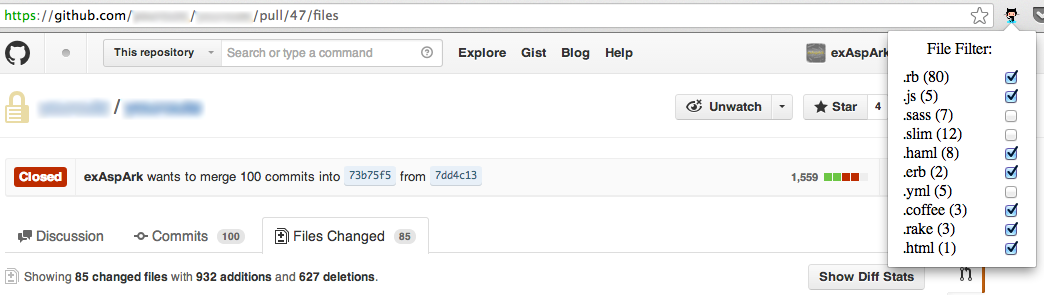
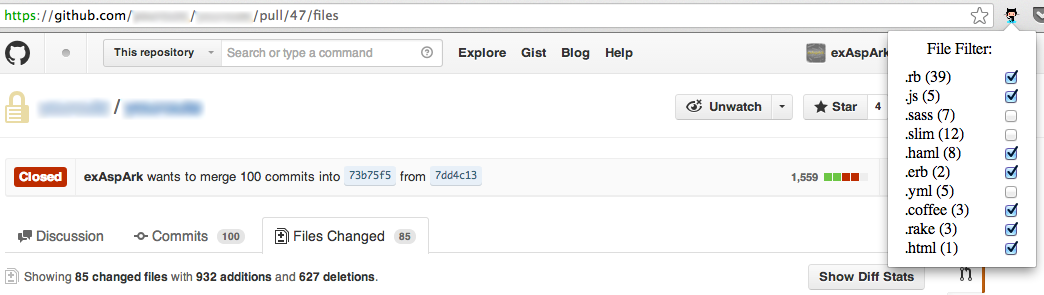
fix elements' count in popup

Changed region(s): [[0.8582, 0.2441, 0.9502, 0.8847]]

diff --git a/github-review-file-filter/file_extensions.js b/github-review-file-filter/file_extensions.js
@@ -1,53 +1,42 @@
-var allFiles          = getAllElementsWithAttribute('class', 'meta');
-var allFileExtensionsInfo = getAllFileExtensionsInfo(allFiles);
+var allFileElements       = getAllFiles(getAllElementsWithAttribute('class', 'meta'));
+var allFileExtensionsInfo = getAllFileExtensionsInfo(allFileElements);
 
 // send allFileExtensionsInfo to popup.js
 chrome.extension.sendMessage(allFileExtensionsInfo);
 
 // ----------------------------------------------------------------------------
 
-// action if checkbox with file extension was toggled
-chrome.extension.onMessage.addListener(function(message, sender, sendResponse) {
-    if(message.action === 'checkboxToggled') {
-        for (var i = 0; i < allFiles.length; i++) {
-            var fileExtension = getFileExtension(allFiles[i]);
-            if (fileExtension === message.fileExtension) {
-                toggleFileVisibility(allFiles[i], message.visible);
-            }
+function getAllFiles(elements) {
+    allFiles = [];
+    for (var i = 0; i < elements.length; i++) {
+        if (hasClass(elements[i].parentNode, 'file')) {
+            allFiles.push(elements[i]);
         }
     }
-});
-
-function toggleFileVisibility(divFile, visible) {
-    var display;
-    if (visible) {
-        display = 'block';
-    }
-    else {
-        display = 'none';
-    }
-
-    divFile.parentNode.style.display = display;
+    return allFiles;
 }
 
-// ----------------------------------------------------------------------------
+function hasClass(element, className) {
+    return (' ' + element.className + ' ').indexOf(' ' + className + ' ') !== -1;
+}
 
-function getAllElementsWithAttribute(attribute, value) {
+function getAllElementsWithAttribute(attributeName, value) {
     var matchingElements = [];
-    var allElements = document.getElementsByTagName('*');
+    var allElements = document.getElementsByTagName('div');
     for (var i = 0; i < allElements.length; i++) {
-        if (allElements[i].getAttribute(attribute) == value) {
-        matchingElements.push(allElements[i]);
+        if (allElements[i].getAttribute(attributeName) == value) {
+            matchingElements.push(allElements[i]);
         }
     }
     return matchingElements;
 }
 
-function getAllFileExtensionsInfo(allFiles) {
+function getAllFileExtensionsInfo(allFileElements) {
     var allFileExtensionsInfo = [];
-    for (var i = 0; i < allFiles.length; i++) {
-        var isVisible         = allFiles[i].parentNode.style.display !== 'none';
-        var fileExtension     = getFileExtension(allFiles[i]);
+
+    for (var i = 0; i < allFileElements.length; i++) {
+        var isVisible         = allFileElements[i].parentNode.style.display !== 'none';
+        var fileExtension     = getFileExtension(allFileElements[i]);
         var fileExtensionInfo = findFileExtensionInfo(allFileExtensionsInfo, fileExtension);
 
         if (fileExtensionInfo) {
@@ -72,8 +61,8 @@ function findFileExtensionInfo(allFileExtensionsInfo, fileExtension) {
     return null;
 }
 
-function getFileExtension(divFile) {
-    var fileName = divFile.getAttribute('data-path');
+function getFileExtension(fileElement) {
+    var fileName = fileElement.getAttribute('data-path');
 
     if (fileName.indexOf('.') !== -1) {
         return '.' + fileName.split('.').pop();
@@ -81,4 +70,32 @@ function getFileExtension(divFile) {
     else {
         return fileName;
     }
+}
+
+// ----------------------------------------------------------------------------
+
+// action if checkbox with file extension was toggled
+chrome.extension.onMessage.addListener(function(message, sender, sendResponse) {
+    if(message.action === 'checkboxToggled') {
+        for (var i = 0; i < allFileElements.length; i++) {
+            var fileExtension = getFileExtension(allFileElements[i]);
+            if (fileExtension === message.fileExtension) {
+                toggleFileVisibility(allFileElements[i], message.visible);
+            }
+        }
+    }
+});
+
+// ----------------------------------------------------------------------------
+
+function toggleFileVisibility(fileElement, visible) {
+    var display;
+    if (visible) {
+        display = 'block';
+    }
+    else {
+        display = 'none';
+    }
+
+    fileElement.parentNode.style.display = display;
 }

diff --git a/github-review-file-filter/popup.js b/github-review-file-filter/popup.js
@@ -5,15 +5,17 @@ window.onload = function() {
     });
 };
 
+// ----------------------------------------------------------------------------
+
 // get allFileExtensionsInfo from file_extensions.js
 chrome.extension.onMessage.addListener(function(allFileExtensionsInfo) {
     if (allFileExtensionsInfo.length > 0) {
         document.getElementById('title').innerHTML = 'File Filter:';
 
-        var divFileExtensions = document.getElementById('fileExtensions');
+        var fileExtensionElements = document.getElementById('fileExtensions');
         for (var i = 0; i < allFileExtensionsInfo.length; i++) {
             var divCheckbox = createFileExtensionCheckbox(allFileExtensionsInfo[i]);
-            divFileExtensions.appendChild(divCheckbox);
+            fileExtensionElements.appendChild(divCheckbox);
         }
     }
 });

diff --git a/github-review-file-filter/background.js b/github-review-file-filter/background.js
@@ -1,10 +1,12 @@
 chrome.tabs.onActivated.addListener(function(activeInfo) {
     chrome.tabs.getSelected(null,function(tab) {
-        changeIcon(tab);
+        changeIconVisibility(tab);
     });
 });
 
-function changeIcon(tab) {
+// ----------------------------------------------------------------------------
+
+function changeIconVisibility(tab) {
     var iconPath;
 
     if (isValidUrl(tab.url)) {
